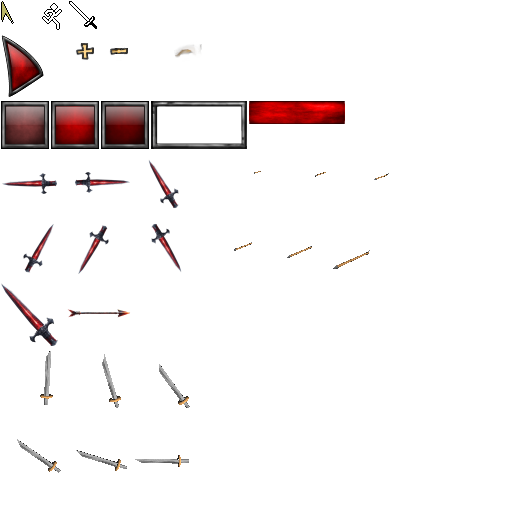
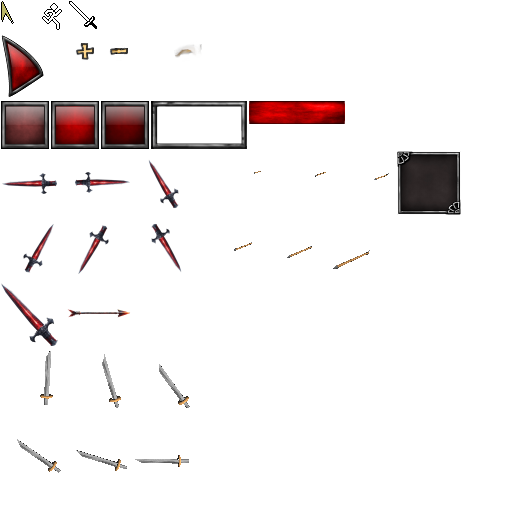
feat: display unit stats

Changed region(s): [[0.75, 0.2812, 0.9062, 0.4375]]

diff --git a/src/unit-stats-panel.ts b/src/unit-stats-panel.ts
@@ -1,0 +1,93 @@
+import { Container, NineSliceSprite, Spritesheet, Text, TextOptions } from "pixi.js";
+import { Creature, CreatureStats } from "./creature";
+
+/**
+ * Contains UI controls to show the unit stats during a battle.
+ */
+export class UnitStatsPanel {
+
+  static DEFAULT_FONT_STYLE: TextOptions = { style: {fill: { color: '#ffffff', alpha: 1 }, fontSize: 16, align: 'left' }};
+
+  private window = new Container();
+
+  private stats?: CreatureStats = undefined;
+  private hpText = new Text({ ...UnitStatsPanel.DEFAULT_FONT_STYLE, text: 'HP: ' });
+  private attackText = new Text({ ...UnitStatsPanel.DEFAULT_FONT_STYLE, text: 'Attack: ' });
+  private rangeText = new Text({ ...UnitStatsPanel.DEFAULT_FONT_STYLE, text: 'Range: ' });
+  private movementText = new Text({ ...UnitStatsPanel.DEFAULT_FONT_STYLE, text: 'Movement: ' });
+  private attacksText = new Text({ ...UnitStatsPanel.DEFAULT_FONT_STYLE, text: 'Attacks: ' });
+  private meleeDefenseText = new Text({ ...UnitStatsPanel.DEFAULT_FONT_STYLE, text: 'Melee Defense: ' });
+  private rangedDefenseText = new Text({ ...UnitStatsPanel.DEFAULT_FONT_STYLE, text: 'Ranged Defense: ' });
+
+  public setCreature(creature: Creature) {
+    this.stats = creature.stats;
+  }
+
+  public constructor(private view: Container, private uiSheet: Spritesheet) {
+
+    const windowBg = new NineSliceSprite({
+      texture: this.uiSheet.textures['panel.png'],
+      leftWidth: 15,
+      topHeight: 15,
+      rightWidth: 15,
+      bottomHeight: 15,
+    });
+
+    windowBg.width = 240;
+    windowBg.height = 320;
+
+    const title = new Text({
+      text: `Stats`,
+      style: { fill: 0xffffff, fontSize: 24 },
+    });
+
+    title.anchor.set(0.5);
+    title.x = windowBg.width / 2;
+    title.y = 25;
+
+    this.window.addChild(windowBg);
+    this.window.addChild(title);
+    this.window.x = 1250;
+    this.window.y = 110;
+
+    this.hpText.position = { x: 10, y: 50 };
+    this.attackText.position = { x: 10, y: 80 };
+    this.rangeText.position = { x: 10, y: 110 };
+    this.movementText.position = { x: 10, y: 140 };
+    this.attacksText.position = { x: 10, y: 170 };
+    this.meleeDefenseText.position = { x: 10, y: 200 };
+    this.rangedDefenseText.position = { x: 10, y: 230 };
+
+    this.window.addChild(this.hpText);
+    this.window.addChild(this.attackText);
+    this.window.addChild(this.rangeText);
+    this.window.addChild(this.movementText);
+    this.window.addChild(this.attacksText);
+    this.window.addChild(this.meleeDefenseText);
+    this.window.addChild(this.rangedDefenseText);
+
+    this.view.addChild(this.window);
+  }
+
+  public update() {
+    this.hpText.text = `HP: ${this.stats?.health}/${this.stats?.max_health}`;
+    this.attackText.text = `Attack: ${this.stats?.attack_low}-${this.stats?.attack_high}`;
+    this.rangeText.text = `Range: ${this.stats?.range}`;
+    this.movementText.text = `Movement: ${this.stats?.remaining_movement} / ${this.stats?.speed}`;
+    this.attacksText.text = `Attacks: ${this.stats?.remaining_attacks} / ${this.stats?.num_attacks}`;
+    this.meleeDefenseText.text = `Melee Defense: ${this.stats?.defense_melee}`;
+    this.rangedDefenseText.text = `Ranged Defense: ${this.stats?.defense_ranged}`;
+  }
+
+  public toggleVisibility() {
+    this.window.visible = !this.window.visible;
+  }
+
+  public hide() {
+    this.window.visible = false;
+  }
+
+
+
+
+}

diff --git a/src/app.ts b/src/app.ts
@@ -6,6 +6,7 @@ import { Coords, UserOptions } from './shared';
 import { AnimationType, Battle, MapRenderUpdate } from './battle';
 import { Creature, CreatureType } from './creature';
 import { ProgressBar } from '@pixi/ui';
+import { UnitStatsPanel } from './unit-stats-panel';
 
 export enum GameState {
   InMenu,
@@ -51,6 +52,7 @@ export class HexesApp {
   private displayOnScreenTouchControls: boolean = false;
 
   private commonControls: CommonControls = new CommonControls();
+  private unitStats?: UnitStatsPanel = undefined;
   private softCursorName: string = 'default';
 
   private fpsText?: BitmapText;
@@ -339,7 +341,24 @@ export class HexesApp {
     });
 
     this.commonControls.toggleStatsButton?.onPress.connect(() => {
-      // this.battle.showStats = !this.battle.showStats;
+      if (!this.uiSheet) {
+        return;
+      }
+
+      if (!this.unitStats) {
+        this.unitStats = new UnitStatsPanel(this.renderContainer, this.uiSheet);
+        this.unitStats.hide();
+      }
+
+      this.unitStats.toggleVisibility();
+
+      if (this.unitStats) {
+        if (this.battle.activeCreatureIndex >= 0) {
+          this.unitStats.setCreature(this.battle.creatures[this.battle.activeCreatureIndex]);
+          this.unitStats.update();
+        }
+      }
+
     });
   }
 
@@ -539,7 +558,7 @@ export class HexesApp {
         healthBar.y = y + 60;
         healthBar.progress = 100 * creature.stats.health / creature.stats.max_health;
         healthBar.rotation = -Math.PI / 2;
-  
+
         this.hexUnitBars.push(healthBar);
         this.unitRenderSubgroups[creature.position.y].addChild(healthBar);
       }
@@ -592,6 +611,8 @@ export class HexesApp {
           this.hexSelectedSprite = undefined;
         }
       }
+
+      this.onSelectedUnitChanged(this.battle.creatures[mapUpdate.selectedCreatureIndex]);
     }
 
     if (mapUpdate.reachableCells) {
@@ -706,6 +727,12 @@ export class HexesApp {
     }
   }
 
+  public onSelectedUnitChanged(creature: Creature) {
+    if (this.unitStats) {
+      this.unitStats.setCreature(creature);
+      this.unitStats.update();
+    }
+  }
 
   public setNavMapOffset(offset: Coords): void {
     this.navMapOffset.y = Math.max(this.MAP_OFFSET_MIN.y, offset.y);
